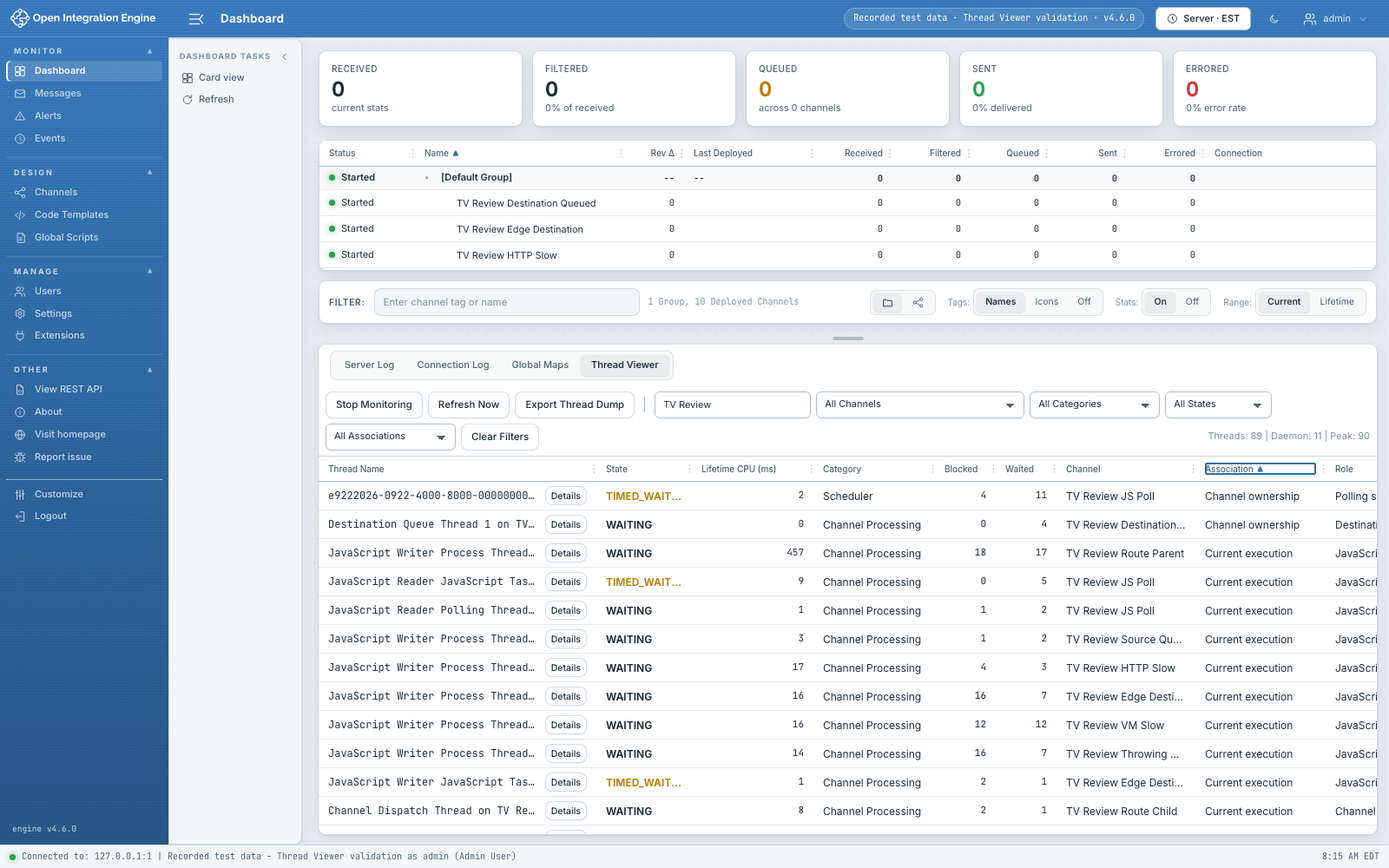
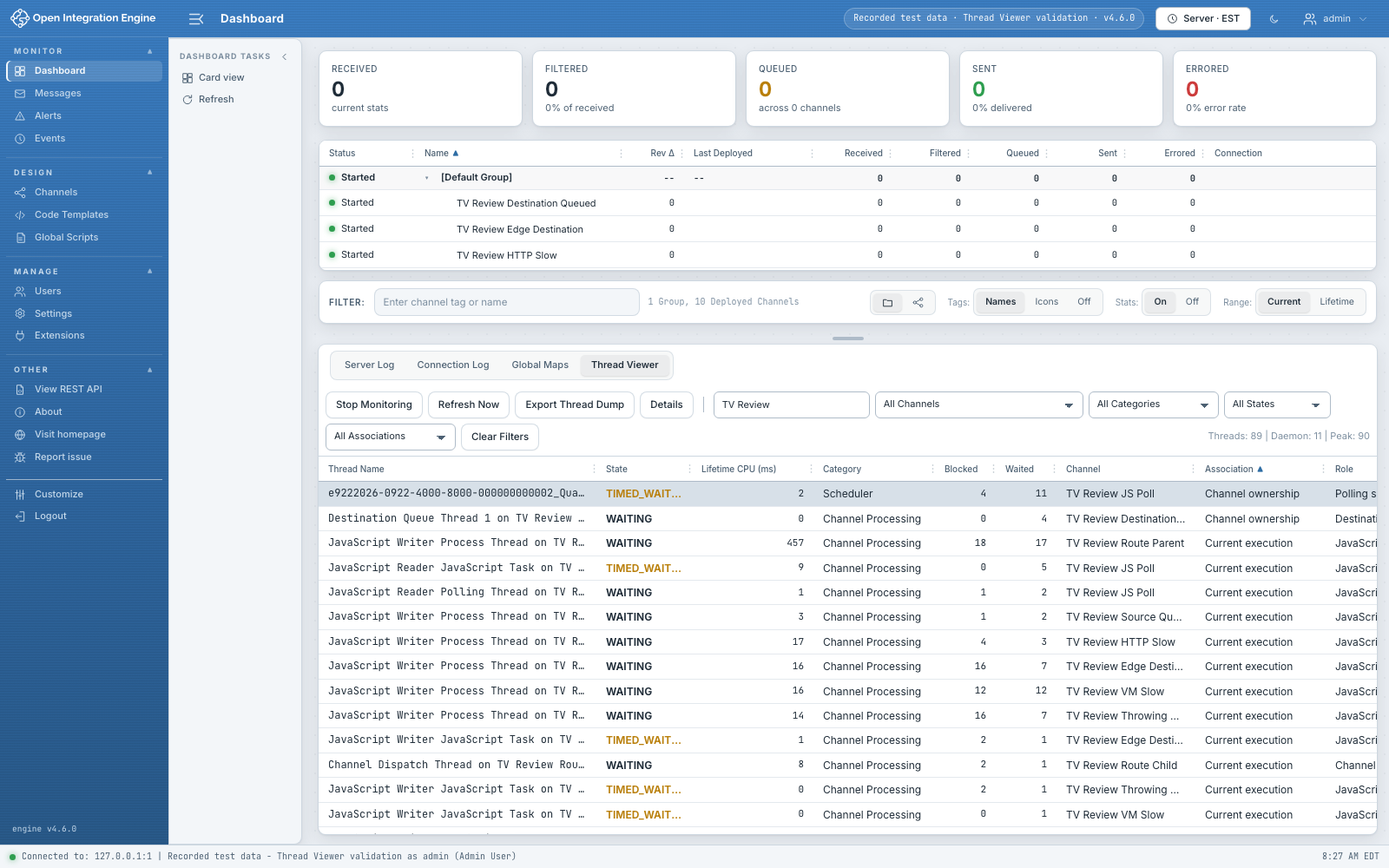
fix: open thread details from the selected row
- Match web-admin click, Space, Enter and double-click behavior.
- Resolve actions against current thread IDs and clear hidden selections.
- Replace per-row buttons with one toolbar action and refresh screenshots.

diff --git a/package/webadmin/web/plugin.js b/package/webadmin/web/plugin.js
@@ -2,7 +2,7 @@
 import { platform } from "@oie/web-shell";
 
 // web/tv-css.generated.js
-var TV_CSS = '/*! tailwindcss v4.3.2 | MIT License | https://tailwindcss.com */\n@layer properties;\n@layer theme, utilities;\n@layer theme {\n  :root, :host {\n    --font-mono: var(--font-mono);\n    --spacing: 0.25rem;\n    --font-weight-semibold: 600;\n    --font-weight-bold: 700;\n  }\n}\n@layer utilities {\n  .invisible {\n    visibility: hidden;\n  }\n  .visible {\n    visibility: visible;\n  }\n  .sticky {\n    position: sticky;\n  }\n  .top-0 {\n    top: 0;\n  }\n  .m-0 {\n    margin: 0;\n  }\n  .mt-1 {\n    margin-top: var(--spacing);\n  }\n  .flex {\n    display: flex;\n  }\n  .table {\n    display: table;\n  }\n  .h-full {\n    height: 100%;\n  }\n  .max-h-\\[55vh\\] {\n    max-height: 55vh;\n  }\n  .min-h-0 {\n    min-height: 0;\n  }\n  .w-full {\n    width: 100%;\n  }\n  .max-w-0 {\n    max-width: 0;\n  }\n  .min-w-0 {\n    min-width: 0;\n  }\n  .flex-1 {\n    flex: 1;\n  }\n  .flex-none {\n    flex: none;\n  }\n  .table-fixed {\n    table-layout: fixed;\n  }\n  .transform {\n    transform: var(--tw-rotate-x,) var(--tw-rotate-y,) var(--tw-rotate-z,) var(--tw-skew-x,) var(--tw-skew-y,);\n  }\n  .cursor-pointer {\n    cursor: pointer;\n  }\n  .flex-col {\n    flex-direction: column;\n  }\n  .flex-wrap {\n    flex-wrap: wrap;\n  }\n  .items-center {\n    align-items: center;\n  }\n  .gap-1 {\n    gap: var(--spacing);\n  }\n  .gap-2 {\n    gap: calc(var(--spacing) * 2);\n  }\n  .truncate {\n    overflow: hidden;\n    text-overflow: ellipsis;\n    white-space: nowrap;\n  }\n  .overflow-auto {\n    overflow: auto;\n  }\n  .overflow-x-hidden {\n    overflow-x: hidden;\n  }\n  .overflow-y-auto {\n    overflow-y: auto;\n  }\n  .rounded-\\[4px\\] {\n    border-radius: 4px;\n  }\n  .border {\n    border-style: var(--tw-border-style);\n    border-width: 1px;\n  }\n  .border-b {\n    border-bottom-style: var(--tw-border-style);\n    border-bottom-width: 1px;\n  }\n  .border-\\[var\\(--bg3\\)\\] {\n    border-color: var(--bg3);\n  }\n  .bg-bg0 {\n    background-color: var(--bg0);\n  }\n  .bg-bg1 {\n    background-color: var(--bg1);\n  }\n  .p-2 {\n    padding: calc(var(--spacing) * 2);\n  }\n  .p-3 {\n    padding: calc(var(--spacing) * 3);\n  }\n  .px-1 {\n    padding-inline: var(--spacing);\n  }\n  .px-2 {\n    padding-inline: calc(var(--spacing) * 2);\n  }\n  .py-0 {\n    padding-block: 0;\n  }\n  .text-left {\n    text-align: left;\n  }\n  .text-right {\n    text-align: right;\n  }\n  .text-\\[12px\\] {\n    font-size: 12px;\n  }\n  .font-\\[650\\] {\n    --tw-font-weight: 650;\n    font-weight: 650;\n  }\n  .font-bold {\n    --tw-font-weight: var(--font-weight-bold);\n    font-weight: var(--font-weight-bold);\n  }\n  .font-semibold {\n    --tw-font-weight: var(--font-weight-semibold);\n    font-weight: var(--font-weight-semibold);\n  }\n  .\\[word-break\\:break-word\\] {\n    word-break: break-word;\n  }\n  .whitespace-nowrap {\n    white-space: nowrap;\n  }\n  .whitespace-pre-wrap {\n    white-space: pre-wrap;\n  }\n  .text-err {\n    color: var(--err);\n  }\n  .text-text {\n    color: var(--text);\n  }\n  .text-text-faint {\n    color: var(--text-faint);\n  }\n  .outline {\n    outline-style: var(--tw-outline-style);\n    outline-width: 1px;\n  }\n  .filter {\n    filter: var(--tw-blur,) var(--tw-brightness,) var(--tw-contrast,) var(--tw-grayscale,) var(--tw-hue-rotate,) var(--tw-invert,) var(--tw-saturate,) var(--tw-sepia,) var(--tw-drop-shadow,);\n  }\n  .select-none {\n    -webkit-user-select: none;\n    user-select: none;\n  }\n}\n.thread-viewer-panel .thread-viewer-toolbar {\n  flex: none;\n  gap: 6px;\n  padding: 6px 8px;\n  background: var(--bg2);\n  font-size: 11px;\n}\n.thread-viewer-toolbar select {\n  width: auto;\n  max-width: min(240px, 100%);\n  min-width: 0;\n  height: 31px;\n  padding-top: 0;\n  padding-bottom: 0;\n}\n.thread-viewer-toolbar input.thread-viewer-search {\n  width: 180px;\n  max-width: 100%;\n  min-width: 0;\n  height: 31px;\n}\n.thread-viewer-toolbar .thread-viewer-status {\n  min-width: 0;\n  overflow-wrap: anywhere;\n}\n.thread-viewer .thread-viewer-details {\n  flex: none;\n  height: 22px;\n  padding: 0 6px;\n  font-family: var(--font-ui);\n  font-size: 10.5px;\n}\n.thread-viewer .thread-viewer-sort {\n  appearance: none;\n  display: flex;\n  align-items: center;\n  width: 100%;\n  min-width: 0;\n  padding: 0;\n  border: 0;\n  background: none;\n  color: inherit;\n  font: inherit;\n  letter-spacing: inherit;\n  text-transform: inherit;\n  text-align: left;\n  white-space: nowrap;\n  cursor: pointer;\n}\n.thread-viewer .thread-viewer-sort:focus-visible {\n  outline: 2px solid var(--accent);\n  outline-offset: -2px;\n  border-radius: 2px;\n}\n@property --tw-rotate-x {\n  syntax: "*";\n  inherits: false;\n}\n@property --tw-rotate-y {\n  syntax: "*";\n  inherits: false;\n}\n@property --tw-rotate-z {\n  syntax: "*";\n  inherits: false;\n}\n@property --tw-skew-x {\n  syntax: "*";\n  inherits: false;\n}\n@property --tw-skew-y {\n  syntax: "*";\n  inherits: false;\n}\n@property --tw-border-style {\n  syntax: "*";\n  inherits: false;\n  initial-value: solid;\n}\n@property --tw-font-weight {\n  syntax: "*";\n  inherits: false;\n}\n@property --tw-outline-style {\n  syntax: "*";\n  inherits: false;\n  initial-value: solid;\n}\n@property --tw-blur {\n  syntax: "*";\n  inherits: false;\n}\n@property --tw-brightness {\n  syntax: "*";\n  inherits: false;\n}\n@property --tw-contrast {\n  syntax: "*";\n  inherits: false;\n}\n@property --tw-grayscale {\n  syntax: "*";\n  inherits: false;\n}\n@property --tw-hue-rotate {\n  syntax: "*";\n  inherits: false;\n}\n@property --tw-invert {\n  syntax: "*";\n  inherits: false;\n}\n@property --tw-opacity {\n  syntax: "*";\n  inherits: false;\n}\n@property --tw-saturate {\n  syntax: "*";\n  inherits: false;\n}\n@property --tw-sepia {\n  syntax: "*";\n  inherits: false;\n}\n@property --tw-drop-shadow {\n  syntax: "*";\n  inherits: false;\n}\n@property --tw-drop-shadow-color {\n  syntax: "*";\n  inherits: false;\n}\n@property --tw-drop-shadow-alpha {\n  syntax: "<percentage>";\n  inherits: false;\n  initial-value: 100%;\n}\n@property --tw-drop-shadow-size {\n  syntax: "*";\n  inherits: false;\n}\n@layer properties {\n  @supports ((-webkit-hyphens: none) and (not (margin-trim: inline))) or ((-moz-orient: inline) and (not (color:rgb(from red r g b)))) {\n    *, ::before, ::after, ::backdrop {\n      --tw-rotate-x: initial;\n      --tw-rotate-y: initial;\n      --tw-rotate-z: initial;\n      --tw-skew-x: initial;\n      --tw-skew-y: initial;\n      --tw-border-style: solid;\n      --tw-font-weight: initial;\n      --tw-outline-style: solid;\n      --tw-blur: initial;\n      --tw-brightness: initial;\n      --tw-contrast: initial;\n      --tw-grayscale: initial;\n      --tw-hue-rotate: initial;\n      --tw-invert: initial;\n      --tw-opacity: initial;\n      --tw-saturate: initial;\n      --tw-sepia: initial;\n      --tw-drop-shadow: initial;\n      --tw-drop-shadow-color: initial;\n      --tw-drop-shadow-alpha: 100%;\n      --tw-drop-shadow-size: initial;\n    }\n  }\n}\n';
+var TV_CSS = '/*! tailwindcss v4.3.2 | MIT License | https://tailwindcss.com */\n@layer properties;\n@layer theme, utilities;\n@layer theme {\n  :root, :host {\n    --font-mono: var(--font-mono);\n    --spacing: 0.25rem;\n    --font-weight-semibold: 600;\n    --font-weight-bold: 700;\n  }\n}\n@layer utilities {\n  .invisible {\n    visibility: hidden;\n  }\n  .visible {\n    visibility: visible;\n  }\n  .sticky {\n    position: sticky;\n  }\n  .top-0 {\n    top: 0;\n  }\n  .m-0 {\n    margin: 0;\n  }\n  .mt-1 {\n    margin-top: var(--spacing);\n  }\n  .flex {\n    display: flex;\n  }\n  .hidden {\n    display: none;\n  }\n  .table {\n    display: table;\n  }\n  .h-full {\n    height: 100%;\n  }\n  .max-h-\\[55vh\\] {\n    max-height: 55vh;\n  }\n  .min-h-0 {\n    min-height: 0;\n  }\n  .w-full {\n    width: 100%;\n  }\n  .max-w-0 {\n    max-width: 0;\n  }\n  .min-w-0 {\n    min-width: 0;\n  }\n  .flex-1 {\n    flex: 1;\n  }\n  .flex-none {\n    flex: none;\n  }\n  .table-fixed {\n    table-layout: fixed;\n  }\n  .transform {\n    transform: var(--tw-rotate-x,) var(--tw-rotate-y,) var(--tw-rotate-z,) var(--tw-skew-x,) var(--tw-skew-y,);\n  }\n  .cursor-pointer {\n    cursor: pointer;\n  }\n  .flex-col {\n    flex-direction: column;\n  }\n  .flex-wrap {\n    flex-wrap: wrap;\n  }\n  .items-center {\n    align-items: center;\n  }\n  .gap-1 {\n    gap: var(--spacing);\n  }\n  .gap-2 {\n    gap: calc(var(--spacing) * 2);\n  }\n  .truncate {\n    overflow: hidden;\n    text-overflow: ellipsis;\n    white-space: nowrap;\n  }\n  .overflow-auto {\n    overflow: auto;\n  }\n  .overflow-x-hidden {\n    overflow-x: hidden;\n  }\n  .overflow-y-auto {\n    overflow-y: auto;\n  }\n  .rounded-\\[4px\\] {\n    border-radius: 4px;\n  }\n  .border {\n    border-style: var(--tw-border-style);\n    border-width: 1px;\n  }\n  .border-b {\n    border-bottom-style: var(--tw-border-style);\n    border-bottom-width: 1px;\n  }\n  .border-\\[var\\(--bg3\\)\\] {\n    border-color: var(--bg3);\n  }\n  .bg-bg0 {\n    background-color: var(--bg0);\n  }\n  .bg-bg1 {\n    background-color: var(--bg1);\n  }\n  .p-2 {\n    padding: calc(var(--spacing) * 2);\n  }\n  .p-3 {\n    padding: calc(var(--spacing) * 3);\n  }\n  .px-1 {\n    padding-inline: var(--spacing);\n  }\n  .px-2 {\n    padding-inline: calc(var(--spacing) * 2);\n  }\n  .py-0 {\n    padding-block: 0;\n  }\n  .text-left {\n    text-align: left;\n  }\n  .text-right {\n    text-align: right;\n  }\n  .text-\\[12px\\] {\n    font-size: 12px;\n  }\n  .font-\\[650\\] {\n    --tw-font-weight: 650;\n    font-weight: 650;\n  }\n  .font-bold {\n    --tw-font-weight: var(--font-weight-bold);\n    font-weight: var(--font-weight-bold);\n  }\n  .font-semibold {\n    --tw-font-weight: var(--font-weight-semibold);\n    font-weight: var(--font-weight-semibold);\n  }\n  .\\[word-break\\:break-word\\] {\n    word-break: break-word;\n  }\n  .whitespace-nowrap {\n    white-space: nowrap;\n  }\n  .whitespace-pre-wrap {\n    white-space: pre-wrap;\n  }\n  .text-err {\n    color: var(--err);\n  }\n  .text-text {\n    color: var(--text);\n  }\n  .text-text-faint {\n    color: var(--text-faint);\n  }\n  .outline {\n    outline-style: var(--tw-outline-style);\n    outline-width: 1px;\n  }\n  .filter {\n    filter: var(--tw-blur,) var(--tw-brightness,) var(--tw-contrast,) var(--tw-grayscale,) var(--tw-hue-rotate,) var(--tw-invert,) var(--tw-saturate,) var(--tw-sepia,) var(--tw-drop-shadow,);\n  }\n  .select-none {\n    -webkit-user-select: none;\n    user-select: none;\n  }\n}\n.thread-viewer-panel .thread-viewer-toolbar {\n  flex: none;\n  gap: 6px;\n  padding: 6px 8px;\n  background: var(--bg2);\n  font-size: 11px;\n}\n.thread-viewer-toolbar select {\n  width: auto;\n  max-width: min(240px, 100%);\n  min-width: 0;\n  height: 31px;\n  padding-top: 0;\n  padding-bottom: 0;\n}\n.thread-viewer-toolbar input.thread-viewer-search {\n  width: 180px;\n  max-width: 100%;\n  min-width: 0;\n  height: 31px;\n}\n.thread-viewer-toolbar .thread-viewer-status {\n  min-width: 0;\n  overflow-wrap: anywhere;\n}\n.thread-viewer .thread-viewer-sort {\n  appearance: none;\n  display: flex;\n  align-items: center;\n  width: 100%;\n  min-width: 0;\n  padding: 0;\n  border: 0;\n  background: none;\n  color: inherit;\n  font: inherit;\n  letter-spacing: inherit;\n  text-transform: inherit;\n  text-align: left;\n  white-space: nowrap;\n  cursor: pointer;\n}\n.thread-viewer .thread-viewer-sort:focus-visible {\n  outline: 2px solid var(--accent);\n  outline-offset: -2px;\n  border-radius: 2px;\n}\n@property --tw-rotate-x {\n  syntax: "*";\n  inherits: false;\n}\n@property --tw-rotate-y {\n  syntax: "*";\n  inherits: false;\n}\n@property --tw-rotate-z {\n  syntax: "*";\n  inherits: false;\n}\n@property --tw-skew-x {\n  syntax: "*";\n  inherits: false;\n}\n@property --tw-skew-y {\n  syntax: "*";\n  inherits: false;\n}\n@property --tw-border-style {\n  syntax: "*";\n  inherits: false;\n  initial-value: solid;\n}\n@property --tw-font-weight {\n  syntax: "*";\n  inherits: false;\n}\n@property --tw-outline-style {\n  syntax: "*";\n  inherits: false;\n  initial-value: solid;\n}\n@property --tw-blur {\n  syntax: "*";\n  inherits: false;\n}\n@property --tw-brightness {\n  syntax: "*";\n  inherits: false;\n}\n@property --tw-contrast {\n  syntax: "*";\n  inherits: false;\n}\n@property --tw-grayscale {\n  syntax: "*";\n  inherits: false;\n}\n@property --tw-hue-rotate {\n  syntax: "*";\n  inherits: false;\n}\n@property --tw-invert {\n  syntax: "*";\n  inherits: false;\n}\n@property --tw-opacity {\n  syntax: "*";\n  inherits: false;\n}\n@property --tw-saturate {\n  syntax: "*";\n  inherits: false;\n}\n@property --tw-sepia {\n  syntax: "*";\n  inherits: false;\n}\n@property --tw-drop-shadow {\n  syntax: "*";\n  inherits: false;\n}\n@property --tw-drop-shadow-color {\n  syntax: "*";\n  inherits: false;\n}\n@property --tw-drop-shadow-alpha {\n  syntax: "<percentage>";\n  inherits: false;\n  initial-value: 100%;\n}\n@property --tw-drop-shadow-size {\n  syntax: "*";\n  inherits: false;\n}\n@layer properties {\n  @supports ((-webkit-hyphens: none) and (not (margin-trim: inline))) or ((-moz-orient: inline) and (not (color:rgb(from red r g b)))) {\n    *, ::before, ::after, ::backdrop {\n      --tw-rotate-x: initial;\n      --tw-rotate-y: initial;\n      --tw-rotate-z: initial;\n      --tw-skew-x: initial;\n      --tw-skew-y: initial;\n      --tw-border-style: solid;\n      --tw-font-weight: initial;\n      --tw-outline-style: solid;\n      --tw-blur: initial;\n      --tw-brightness: initial;\n      --tw-contrast: initial;\n      --tw-grayscale: initial;\n      --tw-hue-rotate: initial;\n      --tw-invert: initial;\n      --tw-opacity: initial;\n      --tw-saturate: initial;\n      --tw-sepia: initial;\n      --tw-drop-shadow: initial;\n      --tw-drop-shadow-color: initial;\n      --tw-drop-shadow-alpha: 100%;\n      --tw-drop-shadow-size: initial;\n    }\n  }\n}\n';
 
 // web/thread-model.js
 var CATEGORIES = [
@@ -213,16 +213,20 @@ var store = {
   error: null,
   // last fetch error message
   notInstalledStatus: null,
-  // Filters + sort survive re-mounts too (the tab re-mounts on every
+  // Filters, sort and selection survive re-mounts too (the tab re-mounts on every
   // dashboard selection change).
   filters: { search: "", channel: "", category: "", state: "", association: "" },
   sort: { key: "cpu", dir: "desc" },
+  selectedThreadId: null,
   listeners: /* @__PURE__ */ new Set(),
   timer: null,
   fetching: false,
   synced: false
 };
 function emit() {
+  if (store.selectedThreadId !== null && !visibleThread(store.selectedThreadId)) {
+    store.selectedThreadId = null;
+  }
   store.listeners.forEach((fn) => fn());
 }
 var WIDTHS_KEY = "thread-viewer.column-widths";
@@ -352,6 +356,24 @@ function filteredThreads() {
     return sign * cmp;
   });
   return rows;
+}
+function visibleThread(threadId) {
+  if (threadId === null || store.notInstalledStatus !== null) return null;
+  const thread = store.snapshot?.threads.find((t) => t.threadId === threadId);
+  return thread && filterThreads({ threads: [thread] }, store.filters).length ? thread : null;
+}
+function selectThread(threadId) {
+  const thread = visibleThread(threadId);
+  if (!thread) return null;
+  if (store.selectedThreadId !== thread.threadId) {
+    store.selectedThreadId = thread.threadId;
+    emit();
+  }
+  return thread;
+}
+function openThread(threadId) {
+  const thread = selectThread(threadId);
+  if (thread) showDetail(thread);
 }
 function stateColor(state) {
   switch (state) {
@@ -529,33 +551,23 @@ function ThreadRow({ t }) {
   return /* @__PURE__ */ React.createElement(
     "tr",
     {
-      className: "cursor-pointer",
-      title: "Double-click or press Enter for details and the stack trace",
+      className: "cursor-pointer" + (store.selectedThreadId === t.threadId ? " selected" : ""),
+      title: "Click or press Space to select; double-click or press Enter for details and the stack trace",
       tabIndex: 0,
       "aria-label": `Thread ${t.name}, ${t.state}`,
+      "aria-selected": store.selectedThreadId === t.threadId,
+      onClick: () => selectThread(t.threadId),
       onKeyDown: (e) => {
         if (e.target !== e.currentTarget) return;
         if (e.key === "Enter" || e.key === " ") {
           e.preventDefault();
-          showDetail(t);
+          if (e.key === " ") selectThread(t.threadId);
+          else if (!e.repeat) openThread(t.threadId);
         }
       },
-      onDoubleClick: () => showDetail(t)
+      onDoubleClick: () => openThread(t.threadId)
     },
-    /* @__PURE__ */ React.createElement("td", { className: "max-w-0 mono text-[12px]" }, /* @__PURE__ */ React.createElement("div", { className: "flex items-center gap-2 min-w-0" }, /* @__PURE__ */ React.createElement("span", { className: "truncate flex-1 min-w-0", title: t.name }, t.name), /* @__PURE__ */ React.createElement(
-      "button",
-      {
-        type: "button",
-        className: "btn btn-sm thread-viewer-details",
-        "aria-label": `Details for thread ${t.name}`,
-        onClick: (e) => {
-          e.stopPropagation();
-          showDetail(t);
-        },
-        onDoubleClick: (e) => e.stopPropagation()
-      },
-      "Details"
-    ))),
+    /* @__PURE__ */ React.createElement("td", { className: "truncate mono text-[12px]", title: t.name }, t.name),
     /* @__PURE__ */ React.createElement("td", { className: "whitespace-nowrap font-[650] text-[12px]", style: color ? { color } : null }, t.state, t.deadlocked ? " \u26A0" : ""),
     /* @__PURE__ */ React.createElement("td", { className: "num" }, t.cpuMs >= 0 ? t.cpuMs : "\u2014"),
     /* @__PURE__ */ React.createElement("td", { className: "whitespace-nowrap text-[12px]" }, t.category),
@@ -644,6 +656,16 @@ function ThreadViewerTab() {
       onClick: exportThreadDump
     },
     "Export Thread Dump"
+  ), /* @__PURE__ */ React.createElement(
+    "button",
+    {
+      type: "button",
+      className: "btn btn-sm",
+      disabled: !!emptyText || !rows.some((t) => t.threadId === store.selectedThreadId),
+      title: "Open the selected thread's details and stack trace",
+      onClick: () => openThread(store.selectedThreadId)
+    },
+    "Details"
   ), /* @__PURE__ */ React.createElement("span", { className: "sep" }), /* @__PURE__ */ React.createElement(
     "input",
     {

diff --git a/package/webadmin/web/plugin.jsx b/package/webadmin/web/plugin.jsx
@@ -70,17 +70,24 @@ const store = {
     snapshot: null,        // last normalized snapshot — retained after Stop
     error: null,           // last fetch error message
     notInstalledStatus: null,
-    // Filters + sort survive re-mounts too (the tab re-mounts on every
+    // Filters, sort and selection survive re-mounts too (the tab re-mounts on every
     // dashboard selection change).
     filters: { search: '', channel: '', category: '', state: '', association: '' },
     sort: { key: 'cpu', dir: 'desc' },
+    selectedThreadId: null,
     listeners: new Set(),
     timer: null,
     fetching: false,
     synced: false
 };
 
-function emit() { store.listeners.forEach(fn => fn()); }
+function emit() {
+    // A hidden/removed row must not leave an actionable, invisible selection.
+    if (store.selectedThreadId !== null && !visibleThread(store.selectedThreadId)) {
+        store.selectedThreadId = null;
+    }
+    store.listeners.forEach(fn => fn());
+}
 
 /* ---- resizable columns (persisted like the host's column manager) ---------- */
 
@@ -228,6 +235,31 @@ function filteredThreads() {
         return sign * cmp;
     });
     return rows;
+}
+
+function visibleThread(threadId) {
+    if (threadId === null || store.notInstalledStatus !== null) return null;
+    const thread = store.snapshot?.threads.find(t => t.threadId === threadId);
+    // Check only this row against the filters; no need to search every stack or
+    // sort the table again when selecting a thread or resizing a column.
+    return thread && filterThreads({ threads: [thread] }, store.filters).length ? thread : null;
+}
+
+function selectThread(threadId) {
+    const thread = visibleThread(threadId);
+    if (!thread) return null;
+    if (store.selectedThreadId !== thread.threadId) {
+        store.selectedThreadId = thread.threadId;
+        emit();
+    }
+    return thread;
+}
+
+function openThread(threadId) {
+    // Resolve by ID at action time: a poll may have replaced the rendered row's
+    // sample, reassigned its worker, or removed it before the event is handled.
+    const thread = selectThread(threadId);
+    if (thread) showDetail(thread);
 }
 
 /* ---- state coloring (Swing StateCellRenderer) ----------------------------- */
@@ -396,20 +428,20 @@ const COLUMNS = [
 function ThreadRow({ t }) {
     const color = stateColor(t.state);
     return (
-        <tr className="cursor-pointer" title="Double-click or press Enter for details and the stack trace"
+        <tr className={'cursor-pointer' + (store.selectedThreadId === t.threadId ? ' selected' : '')}
+            title="Click or press Space to select; double-click or press Enter for details and the stack trace"
             tabIndex={0} aria-label={`Thread ${t.name}, ${t.state}`}
+            aria-selected={store.selectedThreadId === t.threadId}
+            onClick={() => selectThread(t.threadId)}
             onKeyDown={e => {
                 if (e.target !== e.currentTarget) return;
-                if (e.key === 'Enter' || e.key === ' ') { e.preventDefault(); showDetail(t); }
-            }} onDoubleClick={() => showDetail(t)}>
-            <td className="max-w-0 mono text-[12px]">
-                <div className="flex items-center gap-2 min-w-0">
-                    <span className="truncate flex-1 min-w-0" title={t.name}>{t.name}</span>
-                    <button type="button" className="btn btn-sm thread-viewer-details" aria-label={`Details for thread ${t.name}`}
-                        onClick={e => { e.stopPropagation(); showDetail(t); }}
-                        onDoubleClick={e => e.stopPropagation()}>Details</button>
-                </div>
-            </td>
+                if (e.key === 'Enter' || e.key === ' ') {
+                    e.preventDefault();
+                    if (e.key === ' ') selectThread(t.threadId);
+                    else if (!e.repeat) openThread(t.threadId);
+                }
+            }} onDoubleClick={() => openThread(t.threadId)}>
+            <td className="truncate mono text-[12px]" title={t.name}>{t.name}</td>
             <td className="whitespace-nowrap font-[650] text-[12px]" style={color ? { color } : null}>
                 {t.state}{t.deadlocked ? ' ⚠' : ''}
             </td>
@@ -507,6 +539,12 @@ function ThreadViewerTab() {
                 <button type="button" className="btn btn-sm" disabled={!snapshot || !snapshot.threads.length}
                     title="Export a jstack-compatible thread dump" onClick={exportThreadDump}>
                     Export Thread Dump
+                </button>
+                <button type="button" className="btn btn-sm"
+                    disabled={!!emptyText || !rows.some(t => t.threadId === store.selectedThreadId)}
+                    title="Open the selected thread's details and stack trace"
+                    onClick={() => openThread(store.selectedThreadId)}>
+                    Details
                 </button>
                 <span className="sep" />
                 <input type="text" placeholder="Search threads / stacks…" aria-label="Search thread, channel, connector, role or stack trace"

diff --git a/package/webadmin/web/tailwind.css b/package/webadmin/web/tailwind.css
@@ -49,13 +49,6 @@
   min-width: 0;
   overflow-wrap: anywhere;
 }
-.thread-viewer .thread-viewer-details {
-  flex: none;
-  height: 22px;
-  padding: 0 6px;
-  font-family: var(--font-ui);
-  font-size: 10.5px;
-}
 .thread-viewer .thread-viewer-sort {
   appearance: none;
   display: flex;

diff --git a/docs/screenshots/channel-attribution/README.md b/docs/screenshots/channel-attribution/README.md
@@ -7,8 +7,9 @@ isolated OIE 4.6.0 validation run on September 22, 2026. All channel names and I
 are synthetic test data; this is not a currently connected engine session.
 
 - [Dashboard overview](web-dashboard-overview.png): compact filters, host-styled
-  sortable headers, numeric cells, and small Details buttons alongside the
-  existing dashboard controls.
+  sortable headers, numeric cells, and one toolbar Details action for the
+  highlighted thread. Click or Space selects a row; double-click or Enter opens
+  it. Details is disabled when selection is empty, hidden, or removed.
 - [Channel ownership](web-channel-ownership.png): the stable channel filter
   selects `TV Review JS Poll`, while `Channel ownership` identifies its idle
   polling scheduler. The snapshot remains available after monitoring
@@ -24,7 +25,8 @@ are synthetic test data; this is not a currently connected engine session.
 Captures use Chromium at 1600×1000 with the real dashboard splitter expanding
 its dock. There are no screenshot-only CSS overrides. Additional checks cover
 its default 230px dock, 1000px and 800px viewports, both themes, keyboard sorting
-and Details activation, long labels, empty results, and filter clearing. The
+and Details activation, selection across refreshes, hidden/removed selection,
+long labels, empty results, and filter clearing. The
 host Server Log tab supplies a direct styling reference. Detail timestamps use
 the host's timezone-aware formatter.
 
@@ -32,7 +34,7 @@ Capture inputs (SHA-256):
 
 | Input | SHA-256 |
 | --- | --- |
[5 lines of base64/hex data omitted]

diff --git a/README.md b/README.md
@@ -100,7 +100,9 @@ status table with the same features as the Swing panel:
 
 - Start/Stop monitoring, Refresh Now, and jstack-compatible **Export Thread Dump**
 - Search, channel, association, category, and state filters; sortable columns (lifetime CPU descending by default)
-- Open details with the Details button, row double-click, or keyboard; details follow the selected thread
+- Click a row or press Space to select it; open it with the toolbar Details button,
+  double-click, or Enter. Details follow that thread across refreshes. The toolbar
+  action is disabled when the selected thread disappears or is filtered out.
 - DEADLOCK DETECTED banner when `ThreadMXBean` reports a deadlock
 - Thread data is retained after Stop for browsing and export
 
